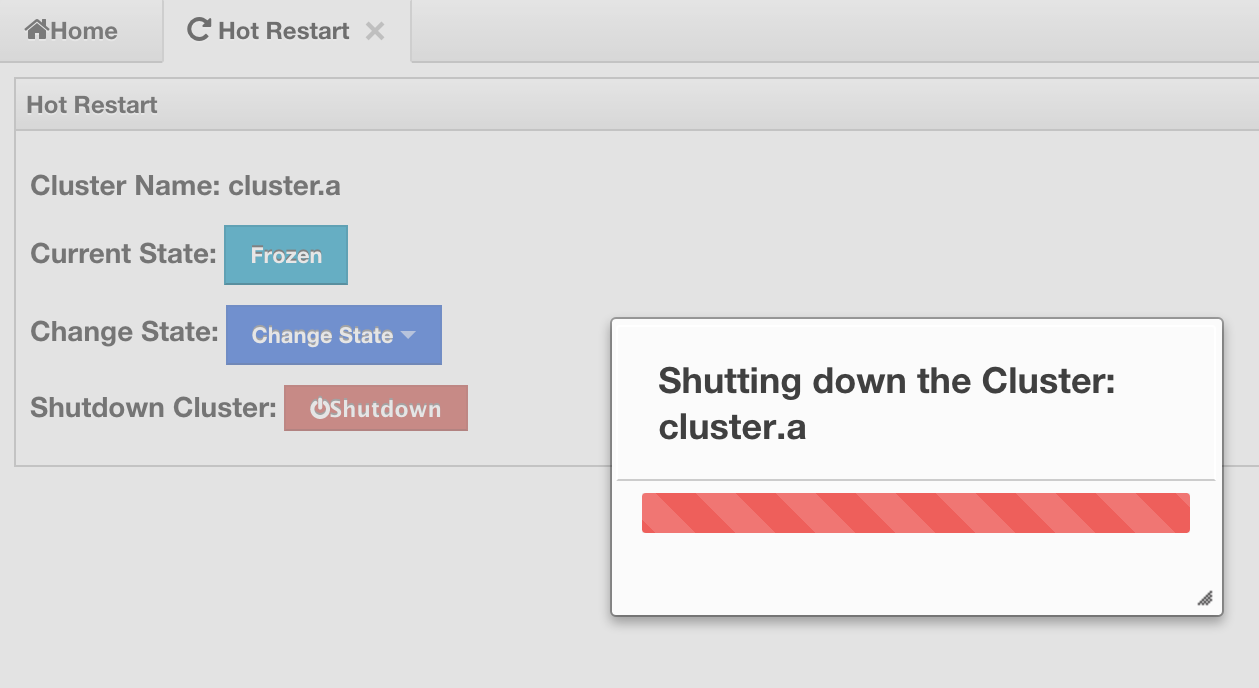
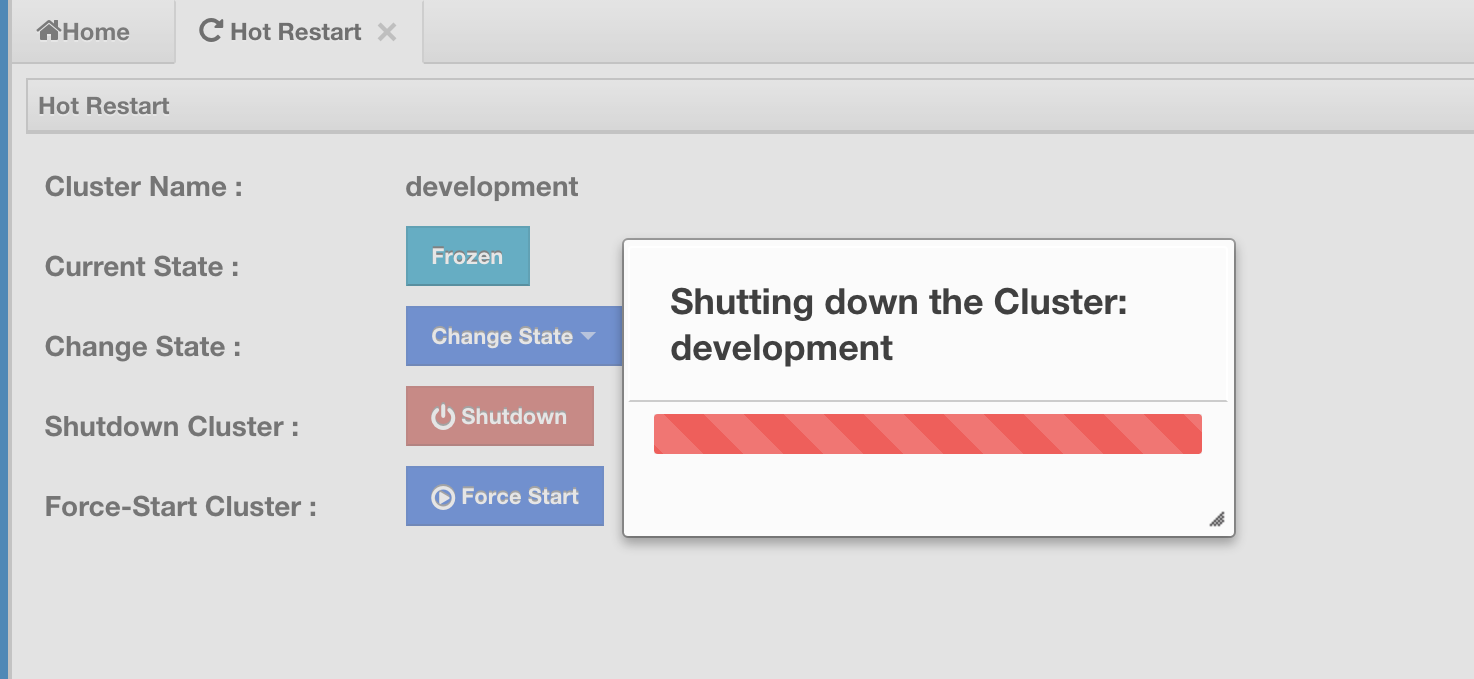
Force start for mancenter

Changed region(s): [[0.0, 0.0, 1.0, 1.0], [0.1239, 0.0309, 0.3098, 0.0619]]

diff --git a/src/ManagementCenter.md b/src/ManagementCenter.md
@@ -96,7 +96,7 @@ The toolbar has the following buttons:
   ![](images/4ChangeCluster.jpg)
 
   The user can select any cluster and once selected, the page immediately loads with the selected cluster's information.
-  
+
 
 ![image](images/NoteSmall.jpg) ***NOTE:*** *Some of the above listed toolbar items are not visible to users who are not admin or who have **read-only** permission. Also, some of the operations explained in the later sections cannot be performed by users with read-only permission. Please see the [Administration section](#administration) for details.*
 
@@ -597,8 +597,17 @@ In this screen, the admin user can see the cluster state, change the cluster sta
 
 ![](images/ShutdownCluster.png)
 
-
 If an exception occurs during the state change or shutdown operation on the cluster, this exception message will be showed on the screen as a notification.
+
+**Force Start the Cluster**
+
+Restart process can not complete if a node crashes permanently and can not recover from the failure since since it can not start or, fail to load its own data. In that case, you can force the cluster to clean its persisted data and make a fresh-new start. This process is called force start.
+
+![](images/ForceStart.png)
+
+- Click the **Force Start** button. A pop-up will appear and stay on screen until the operation is triggered.
+
+If an exception occurs, this exception message will be showed on the screen as a notification. 
 
 ### Checking Past Status with Time Travel
 
